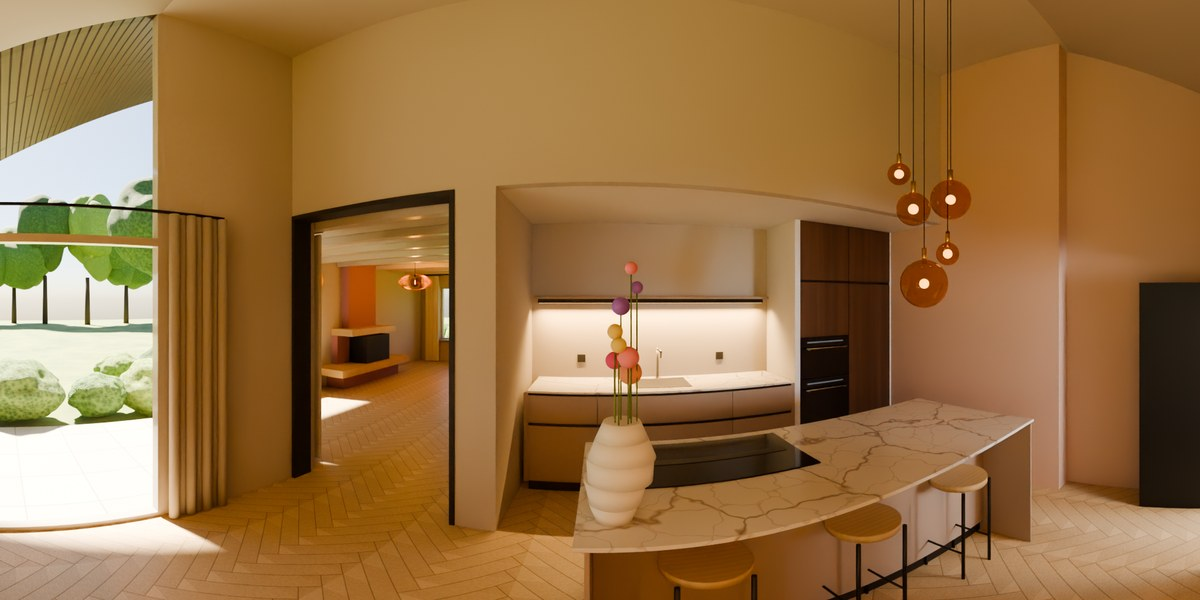
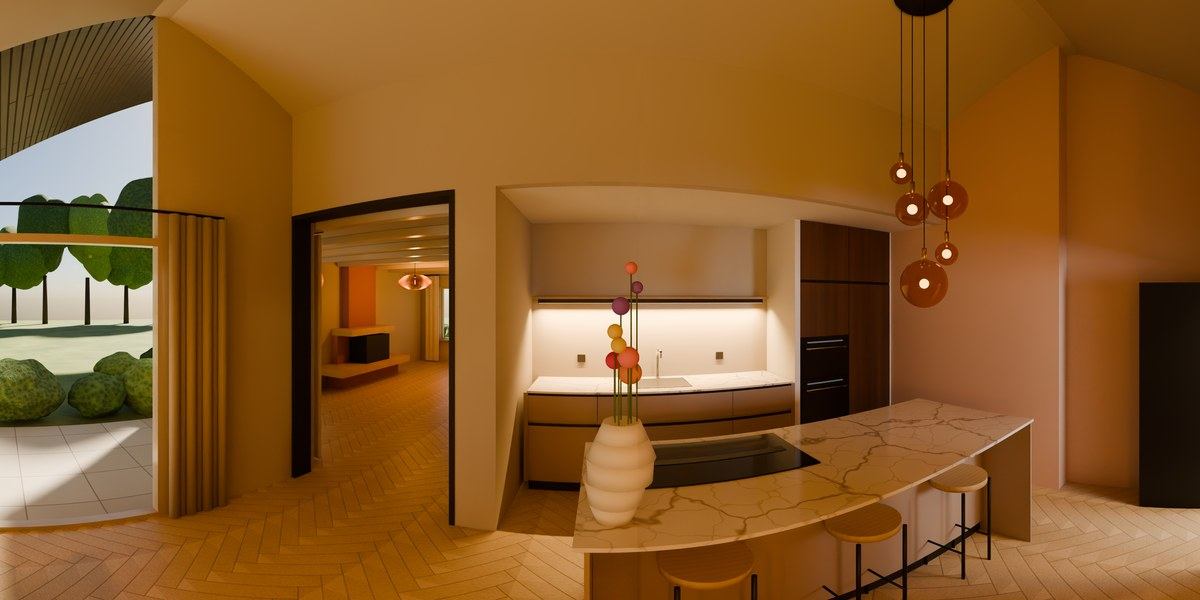
Rondkijker keuken: stuc, vilt beide kanten of vilt alleen oost, elk overdag, zonnig en 's avonds (8192 x 4096)
De kijker krijgt een optionele knoppenbalk voor uitvoeringen, laat de beelden van andere plekken
los en verkleint beelden die groter zijn dan het toestel aankan.

diff --git a/kijker.js b/kijker.js
@@ -1,11 +1,12 @@
 // Rondkijker: WebGL-kijker voor equirectangulaire panorama's, zonder bibliotheken.
 // Instellingen in window.RONDKIJKER (gezet door index.html van de rondkijker):
-//   {naam, plekken: [{id, naam, kijk, wat}], momenten: [{id, naam}]}; beeld per plek en moment: <plek>-<moment>.jpg
+//   {naam, plekken: [{id, naam, kijk, wat}], momenten: [{id, naam}], varianten: [{id, naam}] (optioneel)};
+//   beeld per plek en moment: <plek>-<moment>.jpg, met varianten <plek>-<variant>-<moment>.jpg
 //   kijk = kompasrichting (graden) van het midden van de afbeelding.
 (function () {
   const R = window.RONDKIJKER;
-  const PLEKKEN = R.plekken, MOMENTEN = R.momenten;
-  let plek = PLEKKEN[0], moment = MOMENTEN[0];
+  const PLEKKEN = R.plekken, MOMENTEN = R.momenten, VARIANTEN = R.varianten || [];
+  let plek = PLEKKEN[0], moment = MOMENTEN[0], variant = VARIANTEN[0];
   document.getElementById("titel").textContent = R.naam;
 
   const canvas = document.getElementById("c");
@@ -33,16 +34,24 @@
   const U = n => gl.getUniformLocation(prog, n);
   let yaw = 0, pitch = 0, fov = 75;
   const NAMEN = ["N", "NNO", "NO", "ONO", "O", "OZO", "ZO", "ZZO", "Z", "ZZW", "ZW", "WZW", "W", "WNW", "NW", "NNW"];
-  const texturen = {};   // per bestand, geladen bij eerste gebruik
+  const texturen = {};   // per bestand, geladen bij eerste gebruik; alleen die van de huidige plek (beelden tot 8192 breed)
+  const MAX_TEX = gl.getParameter(gl.MAX_TEXTURE_SIZE);
 
-  function bestand(p = plek, m = moment) { return `${p.id}-${m.id}.jpg`; }
+  function bestand(p = plek, m = moment, v = variant) { return v ? `${p.id}-${v.id}-${m.id}.jpg` : `${p.id}-${m.id}.jpg`; }
   function laad(naam) {
     if (texturen[naam]) return;
     const t = {tex: gl.createTexture(), klaar: false}; texturen[naam] = t;
     const img = new Image();
     img.onload = () => {
+      if (!texturen[naam]) return;   // intussen losgelaten (andere plek)
+      // groter dan het toestel aankan (telefoons: vaak 4096): eerst verkleinen
+      let bron = img;
+      if (img.width > MAX_TEX) {
+        bron = document.createElement("canvas"); bron.width = MAX_TEX; bron.height = Math.round(img.height * MAX_TEX / img.width);
+        bron.getContext("2d").drawImage(img, 0, 0, bron.width, bron.height);
+      }
       gl.bindTexture(gl.TEXTURE_2D, t.tex);
-      gl.texImage2D(gl.TEXTURE_2D, 0, gl.RGB, gl.RGB, gl.UNSIGNED_BYTE, img);
+      gl.texImage2D(gl.TEXTURE_2D, 0, gl.RGB, gl.RGB, gl.UNSIGNED_BYTE, bron);
       gl.texParameteri(gl.TEXTURE_2D, gl.TEXTURE_WRAP_S, gl.CLAMP_TO_EDGE); gl.texParameteri(gl.TEXTURE_2D, gl.TEXTURE_WRAP_T, gl.CLAMP_TO_EDGE);
       gl.texParameteri(gl.TEXTURE_2D, gl.TEXTURE_MIN_FILTER, gl.LINEAR); gl.texParameteri(gl.TEXTURE_2D, gl.TEXTURE_MAG_FILTER, gl.LINEAR);
       t.klaar = true; if (naam === bestand()) teken();
@@ -50,14 +59,20 @@
     img.onerror = () => { if (naam === bestand()) ladenEl.textContent = `${naam} kon niet worden geladen.`; };
     img.src = naam;
   }
-  function kies(nieuwePlek, nieuwMoment) {
-    if (nieuwePlek && nieuwePlek !== plek) { plek = nieuwePlek; yaw = 0; pitch = 0; }
+  function kies(nieuwePlek, nieuwMoment, nieuweVariant) {
+    if (nieuwePlek && nieuwePlek !== plek) {
+      plek = nieuwePlek; yaw = 0; pitch = 0;
+      for (const naam in texturen) if (!naam.startsWith(plek.id + "-")) { gl.deleteTexture(texturen[naam].tex); delete texturen[naam]; }
+    }
     if (nieuwMoment) moment = nieuwMoment;
+    if (nieuweVariant) variant = nieuweVariant;
     document.getElementById("wat").textContent = plek.wat || "";
     document.querySelectorAll("#plekken button").forEach(b => b.setAttribute("aria-pressed", b.dataset.id === plek.id));
     document.querySelectorAll("#momenten button").forEach(b => b.setAttribute("aria-pressed", b.dataset.id === moment.id));
+    document.querySelectorAll("#varianten button").forEach(b => b.setAttribute("aria-pressed", b.dataset.id === (variant && variant.id)));
     laad(bestand());
     MOMENTEN.forEach(m => laad(bestand(plek, m)));   // de andere momenten van dit standpunt alvast laden
+    VARIANTEN.forEach(v => laad(bestand(plek, moment, v)));   // en de andere varianten bij dit moment
     teken();
   }
   function knoppen(lijst, houder, actie) {
@@ -67,6 +82,7 @@
       b.addEventListener("click", () => actie(item)); houder.appendChild(b);
     });
   }
+  knoppen(VARIANTEN, document.getElementById("varianten"), v => kies(null, null, v));
   knoppen(MOMENTEN, document.getElementById("momenten"), m => kies(null, m));
   knoppen(PLEKKEN, document.getElementById("plekken"), p => kies(p, null));
 

diff --git a/keuken/index.html b/keuken/index.html
@@ -4,7 +4,7 @@
 <meta charset="utf-8">
 <meta name="viewport" content="width=device-width, initial-scale=1, viewport-fit=cover">
 <title>Keuken · Woning Geulwijk</title>
-<meta name="description" content="De keuken met kookeiland en eettafel onder het schuine dak. Vergelijk de schuine wand in Driftwood-stuc met akoestisch vilt (Stockholm in Sand, golvende groeven van goot naar nok).">
+<meta name="description" content="De keuken met kookeiland en eettafel onder het zadeldak: twee schuine kanten met een gelakte Driftwood-plank in de nok. Vergelijk het plafond in Driftwood-stuc met akoestisch vilt (Stockholm in Sand, golvende groeven van goot naar nok) op beide kanten of alleen op de oostkant.">
 <link rel="stylesheet" href="https://fonts.googleapis.com/css2?family=Instrument+Sans:wght@400;600&display=swap">
 <link rel="stylesheet" href="../kijker.css">
 </head>
@@ -17,6 +17,7 @@
     <h1 id="titel"></h1>
     <p id="wat"></p>
   </div>
+  <div class="rij" id="varianten" role="group" aria-label="Uitvoering"></div>
   <div class="rij" id="momenten" role="group" aria-label="Tijd van de dag"></div>
   <div class="rij" id="plekken" role="group" aria-label="Standpunt"></div>
 </div>
@@ -24,7 +25,7 @@
   <div id="hud" class="paneel">kijkrichting <b id="richting">-</b> <span id="graden"></span> · zoom <span id="fov"></span>°</div>
   <div id="hulp" class="paneel">slepen = rondkijken · scrollen of knijpen = zoom · pijltjes · 0 = beginstand</div>
 </div>
-<script>window.RONDKIJKER = {"naam": "Keuken", "plekken": [{"id": "midden", "naam": "Tussen eiland en eettafel", "kijk": 270.0, "wat": "Tussen kookeiland en eettafel; vooruit het eiland en het aanrecht, boven je de schuine wand.", "standpunt": "keuken-360"}, {"id": "eettafel", "naam": "Aan de eettafel", "kijk": 270.0, "wat": "Zittend aan de oostkant van de eettafel, recht onder de schuine wand.", "standpunt": "eettafel-stoel-360"}], "momenten": [{"id": "stuc", "naam": "Stuc (nu)"}, {"id": "vilt", "naam": "Vilt"}, {"id": "vilt-avond", "naam": "Vilt 's avonds"}]};</script>
+<script>window.RONDKIJKER = {"naam": "Keuken", "plekken": [{"id": "midden", "naam": "Tussen eiland en eettafel", "kijk": 270.0, "wat": "Tussen kookeiland en eettafel; vooruit het eiland en het aanrecht, boven je beide schuine kanten met de nokplank.", "standpunt": "keuken-360"}, {"id": "eettafel", "naam": "Aan de eettafel", "kijk": 270.0, "wat": "Zittend aan de oostkant van de eettafel, onder de oostelijke schuine kant.", "standpunt": "eettafel-stoel-360"}], "momenten": [{"id": "dag", "naam": "Overdag"}, {"id": "zon", "naam": "Zonnig"}, {"id": "avond", "naam": "'s Avonds"}], "varianten": [{"id": "stuc", "naam": "Stuc"}, {"id": "vilt-helling", "naam": "Vilt beide kanten"}, {"id": "vilt-oost", "naam": "Vilt alleen oost"}]};</script>
 <script src="../kijker.js"></script>
 </body>
 </html>

diff --git a/index.html b/index.html
@@ -48,9 +48,9 @@ footer { color: var(--zacht); font-size: 13px; }
       <img src="keuken/omslag.jpg" alt="" loading="lazy" width="1200" height="600">
       <div class="inhoud">
         <h2>Keuken</h2>
-        <div class="datum">24 okt 2026</div>
-        <p>De keuken met kookeiland en eettafel onder het schuine dak. Vergelijk de schuine wand in Driftwood-stuc met akoestisch vilt (Stockholm in Sand, golvende groeven van goot naar nok).</p>
-        <div class="labels"><span>Tussen eiland en eettafel</span><span>Aan de eettafel</span><span>Stuc (nu)</span><span>Vilt</span><span>Vilt &#x27;s avonds</span></div>
+        <div class="datum">25 okt 2026</div>
+        <p>De keuken met kookeiland en eettafel onder het zadeldak: twee schuine kanten met een gelakte Driftwood-plank in de nok. Vergelijk het plafond in Driftwood-stuc met akoestisch vilt (Stockholm in Sand, golvende groeven van goot naar nok) op beide kanten of alleen op de oostkant.</p>
+        <div class="labels"><span>Tussen eiland en eettafel</span><span>Aan de eettafel</span><span>Stuc</span><span>Vilt beide kanten</span><span>Vilt alleen oost</span><span>Overdag</span><span>Zonnig</span><span>&#x27;s Avonds</span></div>
       </div>
     </a>
     <a class="kaart" href="overloop/">
@@ -81,7 +81,7 @@ footer { color: var(--zacht); font-size: 13px; }
       </div>
     </a>
   </section>
-  <footer>Laatst bijgewerkt 24 okt 2026.</footer>
+  <footer>Laatst bijgewerkt 25 okt 2026.</footer>
 </main>
 </body>
 </html>
